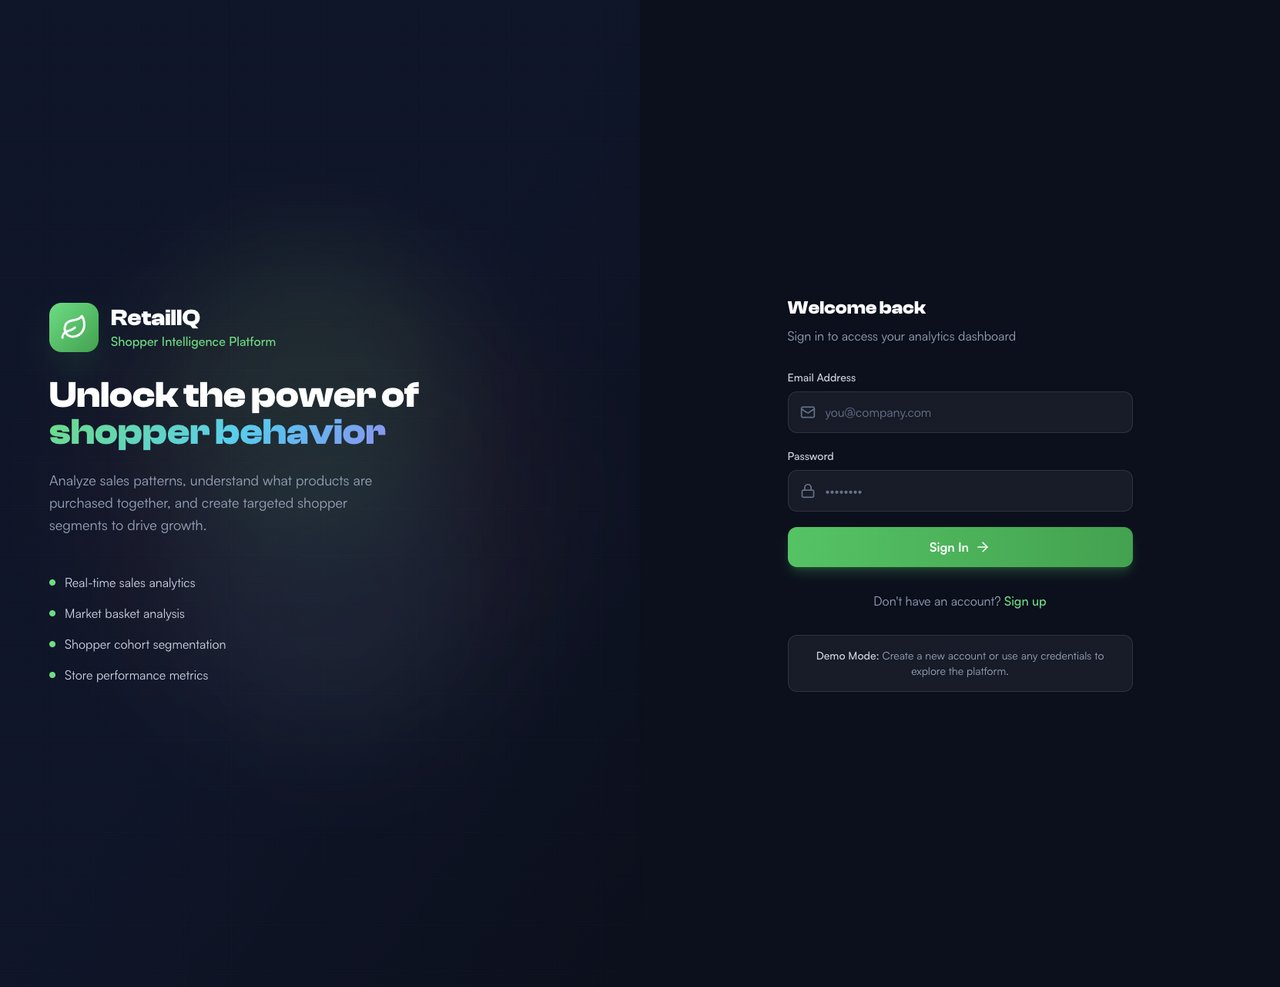
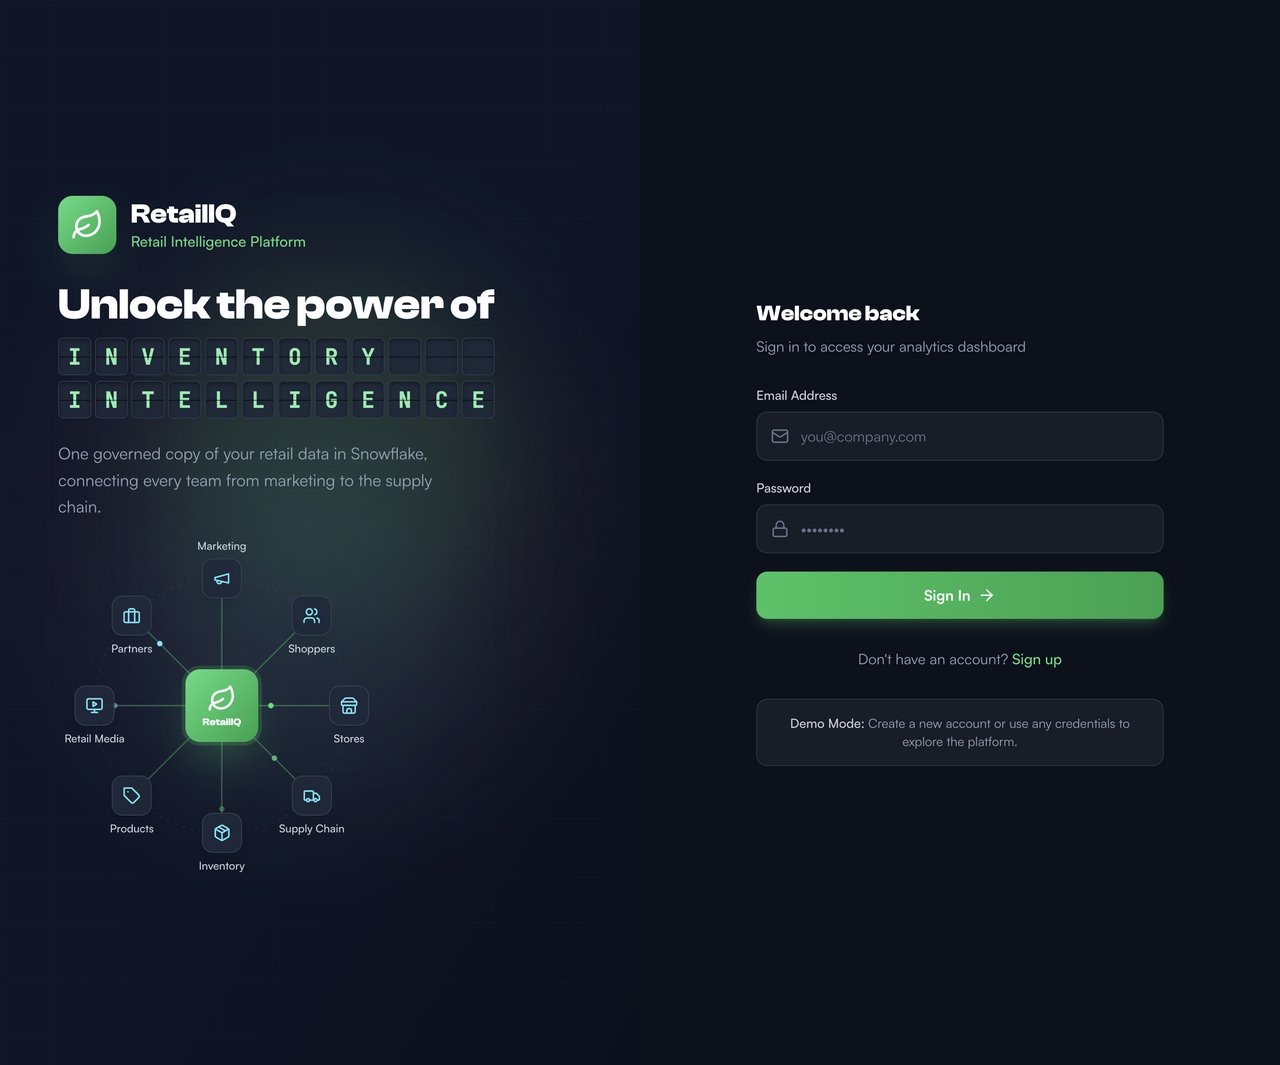
Lead README with the refreshed login screenshot
Generated with [Snowflake CoCo](https://docs.snowflake.com/en/user-guide/cortex-code/cortex-code)

diff --git a/README.md b/README.md
@@ -1,6 +1,8 @@
 # RetailIQ — Unified Retail Intelligence on Snowflake
 
-RetailIQ is a demo shopper-intelligence app for a multi-store retailer and its brand partners. Sales, products, stores, shoppers, and partner agreements all live in **one governed copy in Snowflake**. Every persona (merchant, category manager, vendor) works from that same data and sees exactly the slice they are entitled to.
+![RetailIQ login](docs/images/login.jpg)
+
+RetailIQ is a demo retail-intelligence app for a multi-store retailer and its brand partners. Sales, products, stores, shoppers, and partner agreements all live in **one governed copy in Snowflake**. Every persona (merchant, category manager, vendor) works from that same data and sees exactly the slice they are entitled to.
 
 ![Dashboard](docs/images/dashboard.jpg)
 
